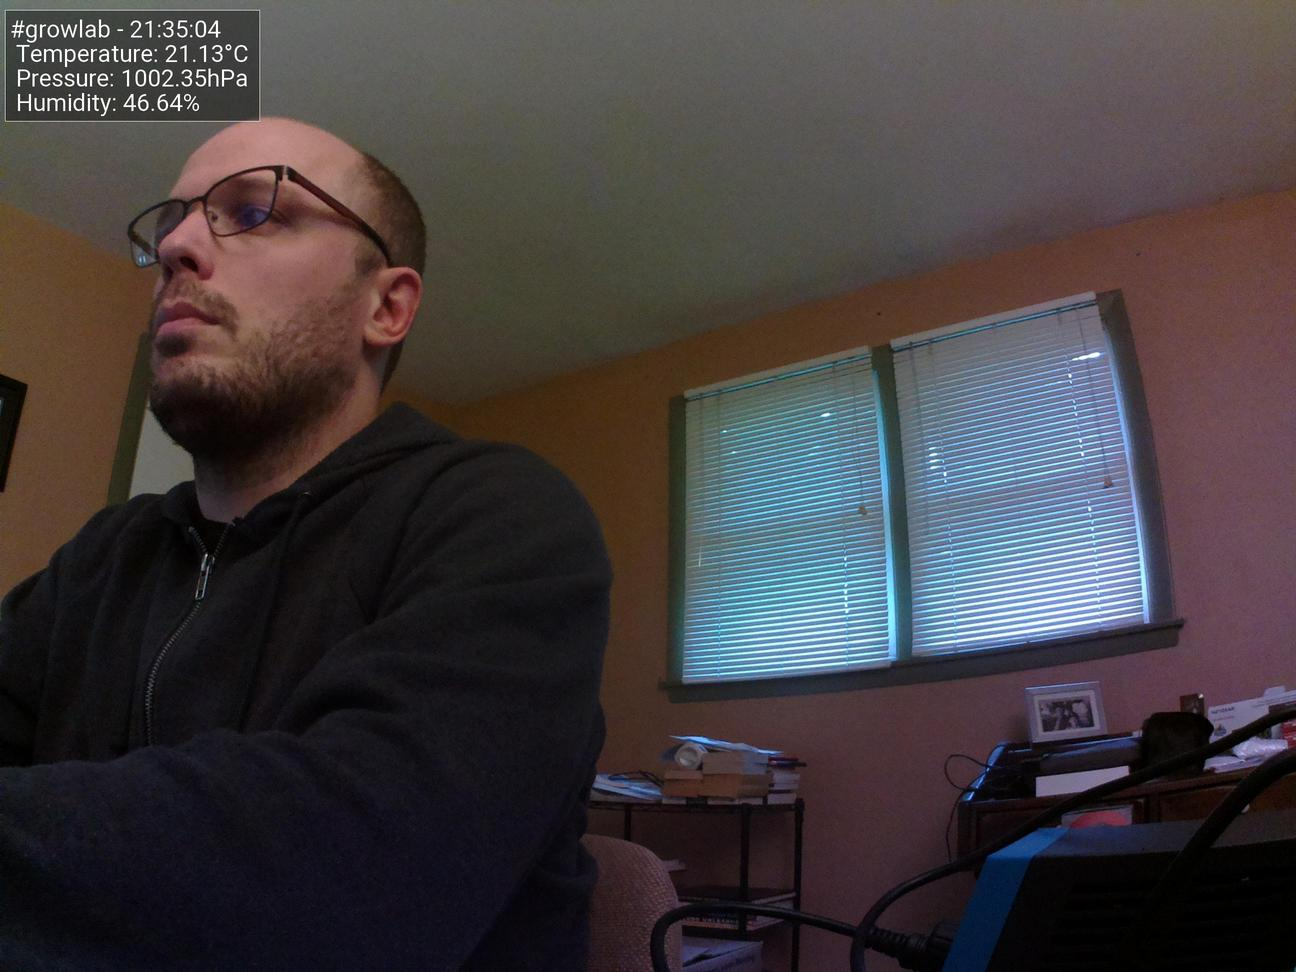
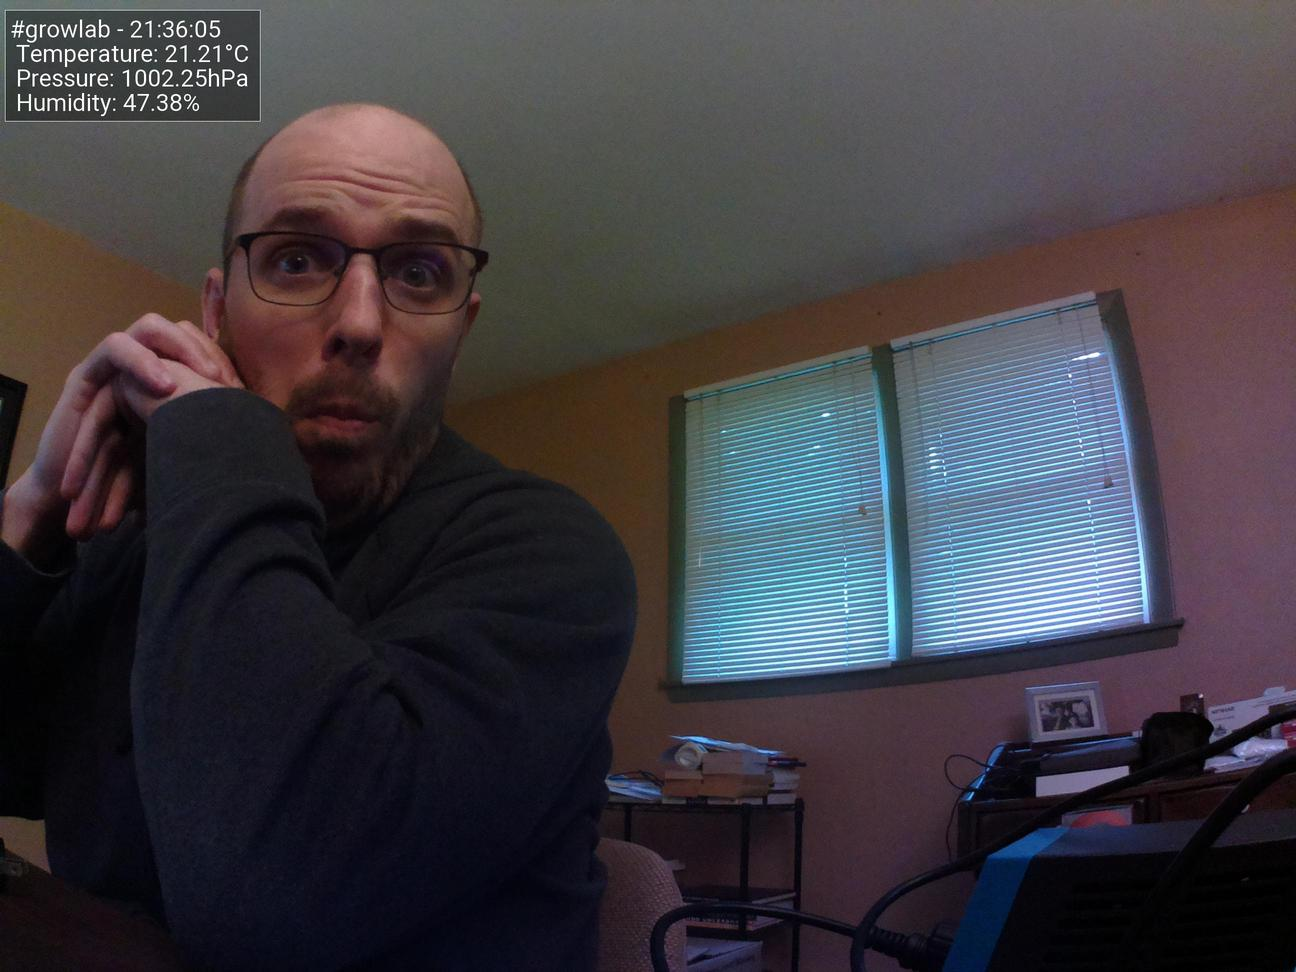
Update images at Sun 30 May 21:36:14 BST 2021

diff --git a/docs/index.html b/docs/index.html
@@ -47,19 +47,19 @@
                         <tbody>
                             <tr>
                                 <td>Time</td>
-                                <td>21:35:04</td>
+                                <td>21:36:05</td>
                             </tr>
                             <tr>
                                 <td>Temperature</td>
-                                <td>21.13°C</td>
+                                <td>21.21°C</td>
                             </tr>
                             <tr>
                                 <td>Humidity</td>
-                                <td>46.64%</td>
+                                <td>47.38%</td>
                             </tr>
                             <tr>
                                 <td>Pressure</td>
-                                <td>1002.35hPa</td>
+                                <td>1002.25hPa</td>
                             </tr>
                         </tbody>
                     </table>
@@ -67,7 +67,7 @@
 
                 <h5>Latest image</h5>
                 <div style="width: 85%;">
-                            <img class="figure-img img-fluid rounded" src="./preview.jpg?uid=1622406912.2809424">
+                            <img class="figure-img img-fluid rounded" src="./preview.jpg?uid=1622406974.1501534">
                 </div>
             </div>
         </div>
